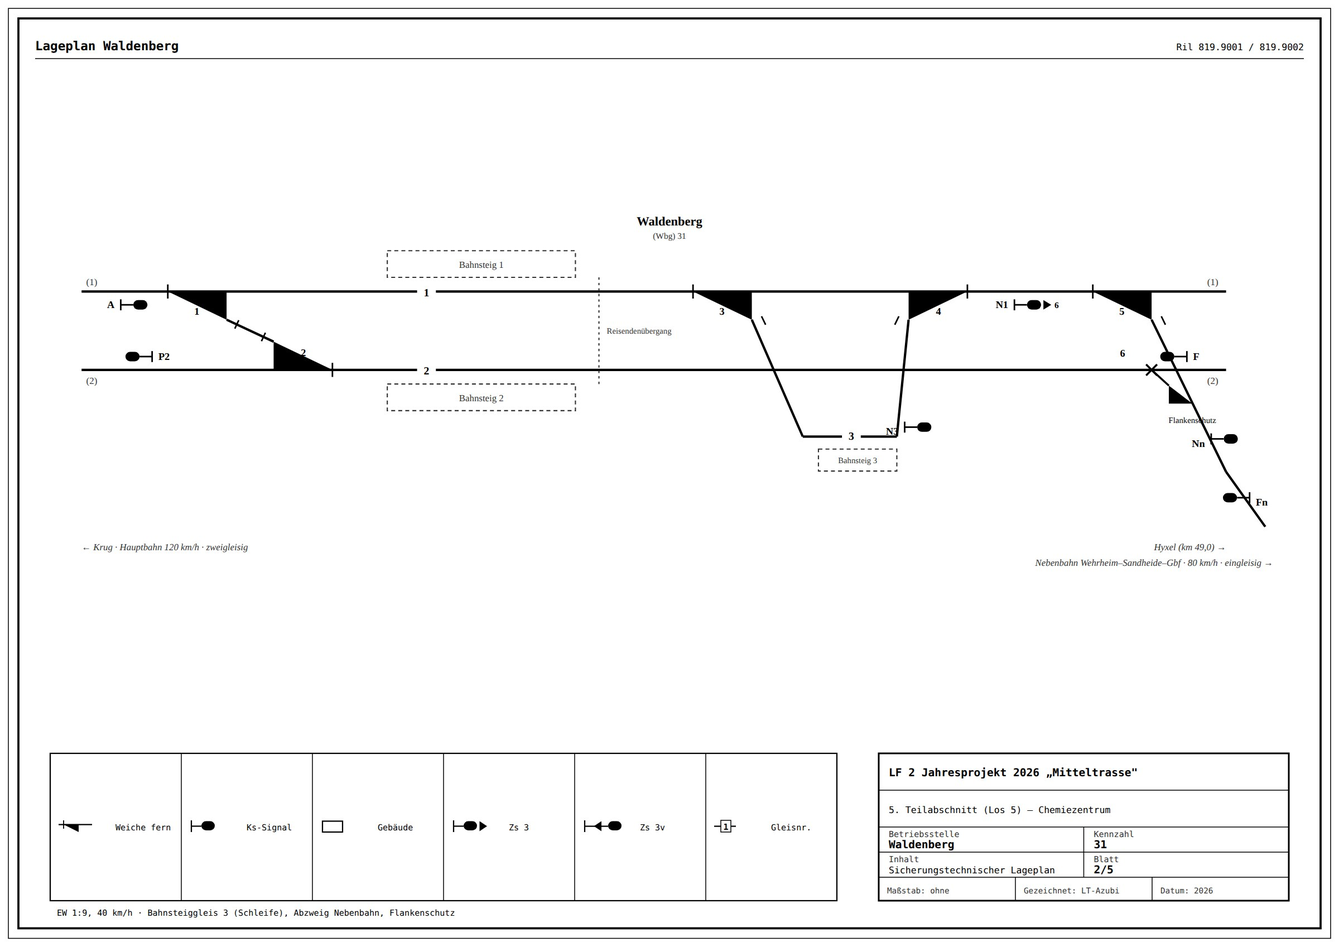
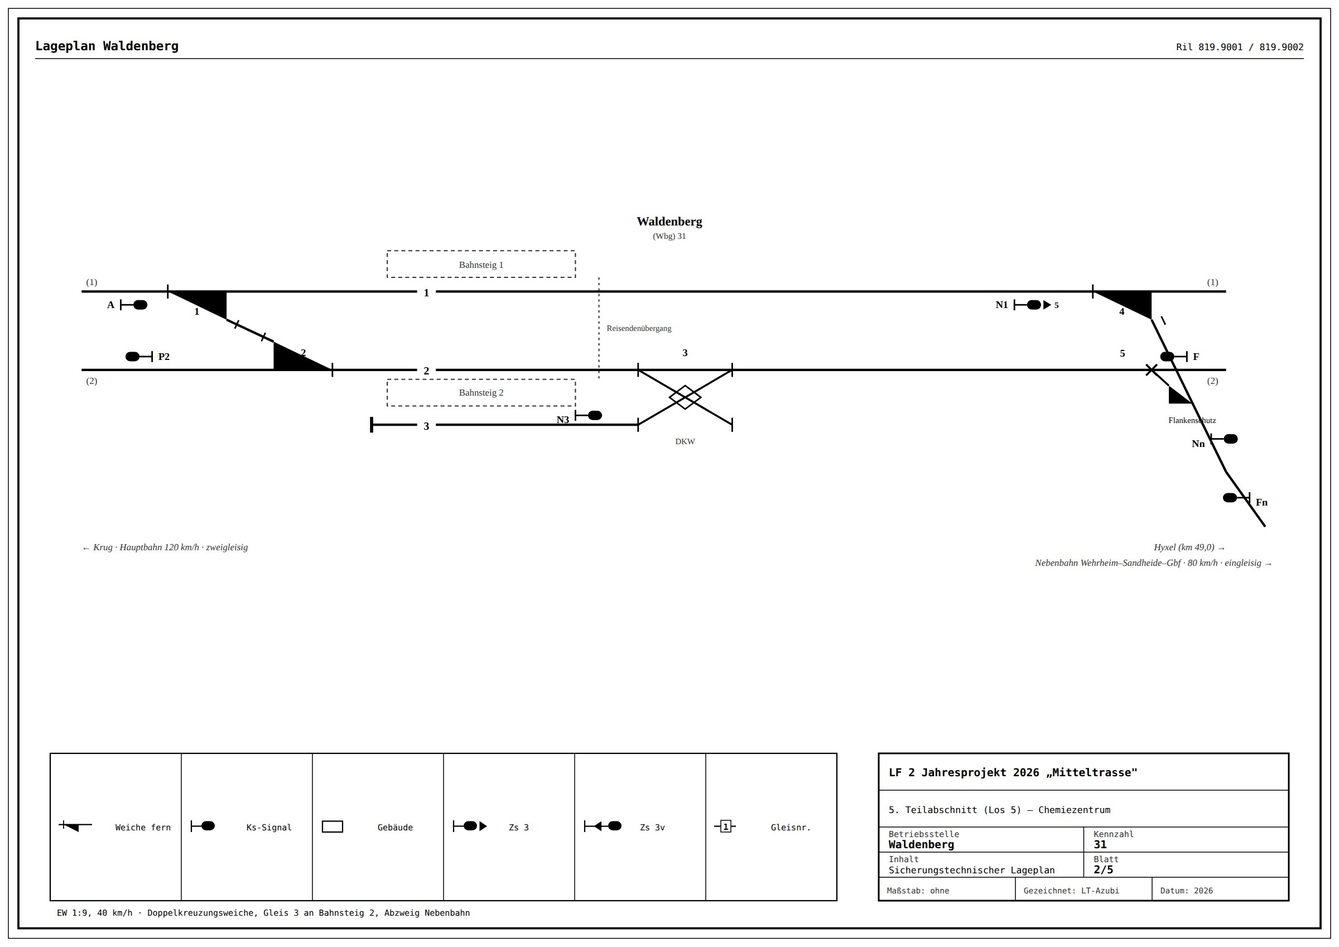
Lageplan Waldenberg: Doppelkreuzungsweiche hinter den Bahnsteigen, Gleis 3 an Bahnsteig 2
Ersetzt die bisherige Bahnsteiggleis-3-Schleife (Weichen 3/4 aus Gleis 1)
durch eine Doppelkreuzungsweiche (DKW), die hinter den Bahnsteigen Gleis 2
und ein neues Gleis 3 verbindet. Gleis 3 liegt als Stumpfgleis (Prellbock
im Westen) an Bahnsteig 2, der dadurch zum Zwischenbahnsteig zwischen
Gleis 2 und Gleis 3 wird. Weichen und Signale entsprechend umnummeriert
(DKW = Weiche 3, Nebenbahn-Abzweig = Weiche 4, Schutzweiche = Weiche 5;
N1 Zs-3-Kennzahl auf 5 angepasst), Weichen-/Signalverzeichnis, Regeltext
und Legende (neue Symbole DKW und Prellbock) aktualisiert.

Technische Zeichnung und JPG-Export nachgezogen, Layoutkollision
zwischen Signal N3 und der DKW-Weichenspitze behoben, per
Playwright-Screenshot verifiziert.

Claude-Session: https://claude.ai/code/session_01KkKfmnRJ6JAZXpvefTv35t

diff --git a/lageplan-waldenberg.html b/lageplan-waldenberg.html
@@ -77,11 +77,11 @@
   <h1>Lageplan Waldenberg</h1>
   <p class="sub">
     Abzweigbahnhof: die zweigleisige Hauptbahn aus Richtung Krug (120 km/h) läuft am
-    Ostkopf <strong>durchgehend geradeaus</strong> weiter nach Hyxel/Furth. Die Bahnsteige 1
-    und 2 liegen außen an den Streckengleisen, verbunden über einen Reisendenübergang.
-    Getrennt davon liegt mittig ein eigenständiges Bahnsteiggleis 3 (Schleife aus Gleis 1),
-    und weiter östlich zweigt über eine eigene Weiche die eingleisige Nebenbahn nach
-    Wehrheim – Sandheide – Gbf (80 km/h) ab.
+    Ostkopf <strong>durchgehend geradeaus</strong> weiter nach Hyxel/Furth. Bahnsteig 1 liegt
+    außen an Gleis 1, Bahnsteig 2 als Zwischenbahnsteig zwischen Gleis 2 und dem neuen
+    Gleis 3, verbunden über einen Reisendenübergang. Hinter den Bahnsteigen verbindet eine
+    <strong>Doppelkreuzungsweiche</strong> Gleis 2 und Gleis 3. Weiter östlich zweigt über
+    eine eigene Weiche die eingleisige Nebenbahn nach Wehrheim – Sandheide – Gbf (80 km/h) ab.
   </p>
 
   <section class="panel">
@@ -91,13 +91,14 @@
       (ferngestellte Weiche), Grenzzeichen am Weichenende. Signale „abgeklappt" in
       Fahrtrichtung, Schirm ausgefüllt = wärterbedient. Alle Hauptsignale sind
       <strong>Ks-Mehrabschnittssignale</strong> (Kombinationssignale, Signalbegriffe Hp 0,
-      Ks 1, Ks 2) und tragen ihre Kennzeichnung am Schirm. Die Schutzweiche 6 sichert als
+      Ks 1, Ks 2) und tragen ihre Kennzeichnung am Schirm. Die Doppelkreuzungsweiche 3
+      verbindet Gleis 2 und Gleis 3 hinter den Bahnsteigen. Die Schutzweiche 5 sichert als
       <strong>Flankenschutz</strong> Gleis 1/2 gegen aus der Nebenbahn auflaufende
       Fahrzeuge und liegt in Grundstellung stets in Schutzlage (Sperrgleis).
     </p>
 
     <div class="diagram-scroll">
-      <svg class="plan" viewBox="0 0 1580 480" role="img" aria-label="Sicherungstechnischer Lageplan der Betriebsstelle Waldenberg: zwei durchgehende Hauptgleise 1 und 2 aus Richtung Krug nach Hyxel, Überleitverbinder mit den Weichen 1 und 2 am Westkopf, Außenbahnsteige 1 und 2 mit Reisendenübergang, eigenständiges Bahnsteiggleis 3 als Schleife aus Gleis 1 mit den Weichen 3 und 4, weiter östlich Abzweigweiche 5 aus Gleis 1 zur eingleisigen Nebenbahn nach Wehrheim mit Schutzweiche 6 als Flankenschutz, Einfahrsignale A und F, Ausfahrsignale N1 und N3, Nebenbahnsignale Nn und Fn.">
+      <svg class="plan" viewBox="0 0 1580 480" role="img" aria-label="Sicherungstechnischer Lageplan der Betriebsstelle Waldenberg: zwei durchgehende Hauptgleise 1 und 2 aus Richtung Krug nach Hyxel, Überleitverbinder mit den Weichen 1 und 2 am Westkopf, Außenbahnsteig 1 an Gleis 1, Zwischenbahnsteig 2 zwischen Gleis 2 und dem neuen Gleis 3 mit Reisendenübergang, dahinter eine Doppelkreuzungsweiche zwischen Gleis 2 und Gleis 3, weiter östlich Abzweigweiche 4 aus Gleis 1 zur eingleisigen Nebenbahn nach Wehrheim mit Schutzweiche 5 als Flankenschutz, Einfahrsignale A und F, Ausfahrsignale N1 und N3, Nebenbahnsignale Nn und Fn.">
 
         <!-- Betriebsstellenbezeichnung -->
         <text x="790" y="26" text-anchor="middle" font-size="16" font-weight="700" fill="currentColor">Waldenberg</text>
@@ -128,22 +129,30 @@
           <text x="323" y="192">2</text>
         </g>
 
-        <!-- Bahnsteig 1 (außen, nördlich Gleis 1) und Bahnsteig 2 (außen, südlich Gleis 2) -->
+        <!-- Bahnsteig 1 (außen, nördlich Gleis 1) und Bahnsteig 2 (Zwischenbahnsteig zwischen Gleis 2 und Gleis 3) -->
         <rect x="430" y="58" width="240" height="34" fill="none" stroke="var(--ink-soft)" stroke-width="1.5" stroke-dasharray="5,4"/>
         <text x="550" y="80" text-anchor="middle" fill="var(--ink-soft)" font-size="12">Bahnsteig 1</text>
-        <rect x="430" y="228" width="240" height="34" fill="none" stroke="var(--ink-soft)" stroke-width="1.5" stroke-dasharray="5,4"/>
-        <text x="550" y="250" text-anchor="middle" fill="var(--ink-soft)" font-size="12">Bahnsteig 2</text>
-        <line x1="700" y1="92" x2="700" y2="228" stroke="var(--ink-soft)" stroke-width="1.5" stroke-dasharray="3,4"/>
-        <text x="710" y="164" font-size="10.5" fill="var(--ink-soft)">Reisendenübergang</text>
+        <rect x="430" y="222" width="240" height="34" fill="none" stroke="var(--ink-soft)" stroke-width="1.5" stroke-dasharray="5,4"/>
+        <text x="550" y="243" text-anchor="middle" fill="var(--ink-soft)" font-size="12">Bahnsteig 2</text>
+        <line x1="700" y1="92" x2="700" y2="222" stroke="var(--ink-soft)" stroke-width="1.5" stroke-dasharray="3,4"/>
+        <text x="710" y="160" font-size="10.5" fill="var(--ink-soft)">Reisendenübergang</text>
 
-        <!-- Gleisnummern Hauptbahn in unterbrochener Gleislinie -->
+        <!-- Gleis 3: neues Bahnsteiggleis an Bahnsteig 2, Stumpfgleis mit Prellbock im Westen -->
+        <g stroke="currentColor" fill="none" stroke-width="3">
+          <line x1="410" y1="280" x2="750" y2="280"/>
+        </g>
+        <line x1="410" y1="270" x2="410" y2="290" stroke="currentColor" stroke-width="4"/>
+
+        <!-- Gleisnummern Hauptbahn/Gleis 3 in unterbrochener Gleislinie -->
         <g fill="var(--surface)" stroke="none">
           <rect x="468" y="100" width="24" height="20"/>
           <rect x="468" y="200" width="24" height="20"/>
+          <rect x="468" y="270" width="24" height="20"/>
         </g>
         <g fill="currentColor" font-size="14" font-weight="600" text-anchor="middle">
           <text x="480" y="116">1</text>
           <text x="480" y="216">2</text>
+          <text x="480" y="286">3</text>
         </g>
 
         <!-- Streckengleisbezeichnung (eingeklammert), West und Ost -->
@@ -154,49 +163,26 @@
           <text x="1490" y="228" text-anchor="end">(2)</text>
         </g>
 
-        <!-- ===== Bahnsteiggleis 3: eigenständige Schleife aus Gleis 1, Weichen 3 (West) und 4 (Ost) ===== -->
+        <!-- ===== Doppelkreuzungsweiche 3: verbindet Gleis 2 und Gleis 3 hinter den Bahnsteigen ===== -->
         <g stroke="currentColor" stroke-width="2">
-          <line x1="820" y1="101" x2="820" y2="119"/>
+          <line x1="750" y1="201" x2="750" y2="219"/>
+          <line x1="750" y1="271" x2="750" y2="289"/>
+          <line x1="870" y1="201" x2="870" y2="219"/>
+          <line x1="870" y1="271" x2="870" y2="289"/>
         </g>
-        <g fill="currentColor" stroke="none">
-          <polygon points="820,110 895,110 895,146"/>
-        </g>
-        <line x1="895" y1="146" x2="960" y2="295" stroke="currentColor" stroke-width="3"/>
-        <g stroke="currentColor" stroke-width="2">
-          <line x1="907.4" y1="141.6" x2="912.6" y2="152.4"/>
-        </g>
-        <text x="857" y="140" text-anchor="middle" font-size="13" font-weight="600" fill="currentColor">3</text>
+        <line x1="750" y1="210" x2="870" y2="280" stroke="currentColor" stroke-width="2.5"/>
+        <line x1="750" y1="280" x2="870" y2="210" stroke="currentColor" stroke-width="2.5"/>
+        <polygon points="810,230 830,245 810,260 790,245" fill="none" stroke="currentColor" stroke-width="2"/>
+        <text x="810" y="192" text-anchor="middle" font-size="13" font-weight="600" fill="currentColor">3</text>
+        <text x="810" y="305" text-anchor="middle" font-size="10.5" fill="var(--ink-soft)">DKW</text>
 
-        <g stroke="currentColor" fill="none" stroke-width="3">
-          <line x1="960" y1="295" x2="1080" y2="295"/>
-        </g>
-        <g fill="var(--surface)" stroke="none">
-          <rect x="1010" y="283" width="24" height="20"/>
-        </g>
-        <text x="1022" y="299" text-anchor="middle" font-size="14" font-weight="600" fill="currentColor">3</text>
-
-        <rect x="980" y="311" width="100" height="28" fill="none" stroke="var(--ink-soft)" stroke-width="1.5" stroke-dasharray="5,4"/>
-        <text x="1030" y="329" text-anchor="middle" fill="var(--ink-soft)" font-size="10.5">Bahnsteig 3</text>
-
-        <g stroke="currentColor" stroke-width="2">
-          <line x1="1170" y1="101" x2="1170" y2="119"/>
-        </g>
-        <g fill="currentColor" stroke="none">
-          <polygon points="1170,110 1095,110 1095,146"/>
-        </g>
-        <line x1="1095" y1="146" x2="1080" y2="295" stroke="currentColor" stroke-width="3"/>
-        <g stroke="currentColor" stroke-width="2">
-          <line x1="1082.6" y1="141.6" x2="1077.4" y2="152.4"/>
-        </g>
-        <text x="1133" y="140" text-anchor="middle" font-size="13" font-weight="600" fill="currentColor">4</text>
-
-        <!-- N3: Ausfahrsignal Gleis 3 zurück auf Gleis 1, Richtung Hyxel -->
+        <!-- N3: Ausfahrsignal Gleis 3, zurück über die DKW auf Gleis 2 -->
         <g stroke="currentColor" stroke-width="2" fill="none">
-          <line x1="1090" y1="276" x2="1090" y2="290"/>
-          <line x1="1090" y1="283" x2="1106" y2="283"/>
+          <line x1="670" y1="261" x2="670" y2="275"/>
+          <line x1="670" y1="268" x2="686" y2="268"/>
         </g>
-        <rect x="1106" y="277" width="18" height="12" rx="6" fill="currentColor"/>
-        <text x="1082" y="293" text-anchor="end" font-size="13" font-weight="600" fill="currentColor">N3</text>
+        <rect x="686" y="262" width="18" height="12" rx="6" fill="currentColor"/>
+        <text x="662" y="278" text-anchor="end" font-size="13" font-weight="600" fill="currentColor">N3</text>
 
         <!-- ===== Signale Hauptbahn ===== -->
         <!-- A: Einfahrsignal West, Gleis 1 -->
@@ -222,7 +208,7 @@
         </g>
         <rect x="1246" y="121" width="18" height="12" rx="6" fill="currentColor"/>
         <polygon points="1267,121 1277,127 1267,133" fill="currentColor"/>
-        <text x="1281" y="131" font-size="11" font-weight="600" fill="currentColor">6</text>
+        <text x="1281" y="131" font-size="11" font-weight="600" fill="currentColor">5</text>
         <text x="1222" y="131" text-anchor="end" font-size="13" font-weight="600" fill="currentColor">N1</text>
 
         <!-- F: Einfahrsignal Ost, Gleis 2, von Hyxel -->
@@ -233,7 +219,7 @@
         <rect x="1416" y="187" width="18" height="12" rx="6" fill="currentColor"/>
         <text x="1458" y="197" font-size="13" font-weight="600" fill="currentColor">F</text>
 
-        <!-- ===== Abzweig zur Nebenbahn: Weiche 5 aus Gleis 1, weiter östlich als das Bahnsteiggleis 3 ===== -->
+        <!-- ===== Abzweig zur Nebenbahn: Weiche 4 aus Gleis 1, weiter östlich als die Bahnsteige ===== -->
         <g stroke="currentColor" stroke-width="2">
           <line x1="1330" y1="101" x2="1330" y2="119"/>
         </g>
@@ -245,16 +231,16 @@
         <g stroke="currentColor" stroke-width="2">
           <line x1="1417.4" y1="141.6" x2="1422.6" y2="152.4"/>
         </g>
-        <text x="1367" y="140" text-anchor="middle" font-size="13" font-weight="600" fill="currentColor">5</text>
+        <text x="1367" y="140" text-anchor="middle" font-size="13" font-weight="600" fill="currentColor">4</text>
 
-        <!-- Schutzweiche 6: Flankenschutz für Gleis 1/2 gegen die Nebenbahn, Grundstellung Schutzlage -->
+        <!-- Schutzweiche 5: Flankenschutz für Gleis 1/2 gegen die Nebenbahn, Grundstellung Schutzlage -->
         <g fill="currentColor" stroke="none">
           <polygon points="1457,253 1427,253 1427,230"/>
         </g>
         <line x1="1427" y1="230" x2="1405" y2="210" stroke="currentColor" stroke-width="2.5"/>
         <line x1="1398" y1="203" x2="1412" y2="217" stroke="currentColor" stroke-width="2.5"/>
         <line x1="1412" y1="203" x2="1398" y2="217" stroke="currentColor" stroke-width="2.5"/>
-        <text x="1368" y="193" text-anchor="middle" font-size="13" font-weight="600" fill="currentColor">6</text>
+        <text x="1368" y="193" text-anchor="middle" font-size="13" font-weight="600" fill="currentColor">5</text>
         <text x="1457" y="278" text-anchor="middle" font-size="10.5" fill="var(--accent-ink)">Flankenschutz</text>
 
         <!-- Nn: Ausfahrsignal Nebenbahn, Richtung Wehrheim -->
@@ -286,9 +272,9 @@
       <span>Sämtliche fernbediente Weichen mit Zungenprüfern.</span>
       <span>Gleisnummern sind einstellig.</span>
       <span>Nebenbahn eingleisig; Kreuzungsmöglichkeiten in Wehrheim, Sandheide und Wassergrund.</span>
-      <span>Weichen 3/4 (Bahnsteiggleis 3, Schleife aus Gleis 1) EW 1:9, 40 km/h.</span>
-      <span>Weiche 5 (Abzweig zur Nebenbahn) EW 1:9, Abzweiggeschwindigkeit 40 km/h → Zs 3 mit Kennzahl 6 an N1.</span>
-      <span>Schutzweiche 6: Flankenschutz für Gleis 1/2, Grundstellung Schutzlage, keine Reisezugfunktion.</span>
+      <span>Doppelkreuzungsweiche 3 verbindet Gleis 2 und Gleis 3 hinter den Bahnsteigen, EW 1:9, 40 km/h.</span>
+      <span>Weiche 4 (Abzweig zur Nebenbahn) EW 1:9, Abzweiggeschwindigkeit 40 km/h → Zs 3 mit Kennzahl 5 an N1.</span>
+      <span>Schutzweiche 5: Flankenschutz für Gleis 1/2, Grundstellung Schutzlage, keine Reisezugfunktion.</span>
     </div>
   </section>
 
@@ -302,10 +288,9 @@
             <tbody>
               <tr><td class="mono">1</td><td class="mono">31W1</td><td>Gleis 1 → Verbindungsgleis (Westkopf, Überleitverbinder)</td></tr>
               <tr><td class="mono">2</td><td class="mono">31W2</td><td>Verbindungsgleis → Gleis 2 (Westkopf, Überleitverbinder)</td></tr>
-              <tr><td class="mono">3</td><td class="mono">31W3</td><td>Gleis 1 → Bahnsteiggleis 3 (Westanschluss der Schleife)</td></tr>
-              <tr><td class="mono">4</td><td class="mono">31W4</td><td>Bahnsteiggleis 3 → Gleis 1 (Ostanschluss der Schleife)</td></tr>
-              <tr><td class="mono">5</td><td class="mono">31W5</td><td>Gleis 1 → Nebenbahn (Ostkopf, Abzweig Richtung Wehrheim)</td></tr>
-              <tr><td class="mono">6</td><td class="mono">31W6</td><td>Schutzweiche Nebenbahn, Flankenschutz für Gleis 1/2 (Grundstellung: Schutzlage)</td></tr>
+              <tr><td class="mono">3</td><td class="mono">31W3</td><td>Doppelkreuzungsweiche, Gleis 2 ↔ Gleis 3 (hinter den Bahnsteigen)</td></tr>
+              <tr><td class="mono">4</td><td class="mono">31W4</td><td>Gleis 1 → Nebenbahn (Ostkopf, Abzweig Richtung Wehrheim)</td></tr>
+              <tr><td class="mono">5</td><td class="mono">31W5</td><td>Schutzweiche Nebenbahn, Flankenschutz für Gleis 1/2 (Grundstellung: Schutzlage)</td></tr>
             </tbody>
           </table>
         </div>
@@ -318,8 +303,8 @@
             <tbody>
               <tr><td class="mono">A</td><td class="mono">31A</td><td>Einfahrsignal Gleis 1, von Krug · Ks-Mehrabschnittssignal (Kombinationssignal)</td></tr>
               <tr><td class="mono">P2</td><td class="mono">31P2</td><td>Ausfahrsignal Gleis 2, Richtung Krug · Ks-Mehrabschnittssignal</td></tr>
-              <tr><td class="mono">N3</td><td class="mono">31N3</td><td>Ausfahrsignal Bahnsteiggleis 3, zurück auf Gleis 1 Richtung Hyxel · Ks-Mehrabschnittssignal</td></tr>
-              <tr><td class="mono">N1</td><td class="mono">31N1</td><td>Ausfahrsignal Gleis 1, Richtung Hyxel oder über Weiche 5 zur Nebenbahn · Ks-Mehrabschnittssignal mit <strong>Zs 3 (6)</strong> für die Abzweigfahrt</td></tr>
+              <tr><td class="mono">N3</td><td class="mono">31N3</td><td>Ausfahrsignal Gleis 3, über die Doppelkreuzungsweiche zurück auf Gleis 2 · Ks-Mehrabschnittssignal</td></tr>
+              <tr><td class="mono">N1</td><td class="mono">31N1</td><td>Ausfahrsignal Gleis 1, Richtung Hyxel oder über Weiche 4 zur Nebenbahn · Ks-Mehrabschnittssignal mit <strong>Zs 3 (5)</strong> für die Abzweigfahrt</td></tr>
               <tr><td class="mono">F</td><td class="mono">31F</td><td>Einfahrsignal Gleis 2, von Hyxel · Ks-Mehrabschnittssignal</td></tr>
               <tr><td class="mono">Nn</td><td class="mono">31Nn</td><td>Ausfahrsignal Nebenbahn, Richtung Wehrheim · Ks-Mehrabschnittssignal</td></tr>
               <tr><td class="mono">Fn</td><td class="mono">31Fn</td><td>Einfahrsignal Nebenbahn, von Wehrheim · Ks-Mehrabschnittssignal</td></tr>
@@ -331,12 +316,13 @@
     </div>
 
     <div class="caveat">
-      <strong>Flankenschutz:</strong> Schutzweiche 6 liegt in Grundstellung stets in
+      <strong>Flankenschutz:</strong> Schutzweiche 5 liegt in Grundstellung stets in
       Schutzlage (auf ein kurzes Sperrgleis) und sichert Gleis 1/2 gegen ein aus der
-      Nebenbahn auflaufendes Fahrzeug. Sie wird nur für Fahrten über Weiche 5 umgestellt
-      und führt keinen eigenen Reisezugverkehr. Der Bahnübergang km 0,8 liegt außerhalb
-      des dargestellten Ausschnitts auf freier Strecke der Nebenbahn und ist hier nicht
-      Bestandteil des Bahnhofs-Lageplans.
+      Nebenbahn auflaufendes Fahrzeug. Sie wird nur für Fahrten über Weiche 4 umgestellt
+      und führt keinen eigenen Reisezugverkehr. Gleis 3 an Bahnsteig 2 ist ein Stumpfgleis
+      (Prellbock im Westen) und wird ausschließlich über die Doppelkreuzungsweiche 3
+      bedient. Der Bahnübergang km 0,8 liegt außerhalb des dargestellten Ausschnitts auf
+      freier Strecke der Nebenbahn und ist hier nicht Bestandteil des Bahnhofs-Lageplans.
     </div>
   </section>
 
@@ -385,6 +371,23 @@
           <text x="16" y="14" text-anchor="middle" font-size="12" font-weight="600" fill="currentColor" font-family="monospace">1</text>
         </svg>
         <span>Gleisnummer in der unterbrochenen Gleislinie</span>
+      </div>
+      <div class="legend-item">
+        <svg width="42" height="26" viewBox="0 0 42 26" aria-hidden="true">
+          <line x1="0" y1="6" x2="14" y2="20" stroke="currentColor" stroke-width="2"/>
+          <line x1="0" y1="20" x2="14" y2="6" stroke="currentColor" stroke-width="2"/>
+          <line x1="28" y1="6" x2="42" y2="20" stroke="currentColor" stroke-width="2"/>
+          <line x1="28" y1="20" x2="42" y2="6" stroke="currentColor" stroke-width="2"/>
+          <polygon points="21,9 26,13 21,17 16,13" fill="none" stroke="currentColor" stroke-width="1.5"/>
+        </svg>
+        <span>Doppelkreuzungsweiche (DKW), verbindet zwei parallele Gleise</span>
+      </div>
+      <div class="legend-item">
+        <svg width="26" height="18" viewBox="0 0 26 18" aria-hidden="true">
+          <line x1="0" y1="9" x2="18" y2="9" stroke="currentColor" stroke-width="2"/>
+          <line x1="18" y1="2" x2="18" y2="16" stroke="currentColor" stroke-width="4"/>
+        </svg>
+        <span>Prellbock (Gleisende, Stumpfgleis)</span>
       </div>
     </div>
   </section>

diff --git a/zeichnung-waldenberg.html b/zeichnung-waldenberg.html
@@ -44,17 +44,23 @@
 </g>
 <rect x="430" y="58" width="240" height="34" fill="none" stroke="#333333" stroke-width="1.5" stroke-dasharray="5,4"/>
 <text x="550" y="80" text-anchor="middle" fill="#333333" font-size="12">Bahnsteig 1</text>
-<rect x="430" y="228" width="240" height="34" fill="none" stroke="#333333" stroke-width="1.5" stroke-dasharray="5,4"/>
-<text x="550" y="250" text-anchor="middle" fill="#333333" font-size="12">Bahnsteig 2</text>
-<line x1="700" y1="92" x2="700" y2="228" stroke="#333333" stroke-width="1.5" stroke-dasharray="3,4"/>
-<text x="710" y="164" font-size="10.5" fill="#333333">Reisendenübergang</text>
+<rect x="430" y="222" width="240" height="34" fill="none" stroke="#333333" stroke-width="1.5" stroke-dasharray="5,4"/>
+<text x="550" y="243" text-anchor="middle" fill="#333333" font-size="12">Bahnsteig 2</text>
+<line x1="700" y1="92" x2="700" y2="222" stroke="#333333" stroke-width="1.5" stroke-dasharray="3,4"/>
+<text x="710" y="160" font-size="10.5" fill="#333333">Reisendenübergang</text>
+<g stroke="#000000" fill="none" stroke-width="3">
+  <line x1="410" y1="280" x2="750" y2="280"/>
+</g>
+<line x1="410" y1="270" x2="410" y2="290" stroke="#000000" stroke-width="4"/>
 <g fill="#ffffff" stroke="none">
   <rect x="468" y="100" width="24" height="20"/>
   <rect x="468" y="200" width="24" height="20"/>
+  <rect x="468" y="270" width="24" height="20"/>
 </g>
 <g fill="#000000" font-size="14" font-weight="600" text-anchor="middle">
   <text x="480" y="116">1</text>
   <text x="480" y="216">2</text>
+  <text x="480" y="286">3</text>
 </g>
 <g fill="#333333" font-size="12">
   <text x="46" y="102">(1)</text>
@@ -63,42 +69,22 @@
   <text x="1490" y="228" text-anchor="end">(2)</text>
 </g>
 <g stroke="#000000" stroke-width="2">
-  <line x1="820" y1="101" x2="820" y2="119"/>
+  <line x1="750" y1="201" x2="750" y2="219"/>
+  <line x1="750" y1="271" x2="750" y2="289"/>
+  <line x1="870" y1="201" x2="870" y2="219"/>
+  <line x1="870" y1="271" x2="870" y2="289"/>
 </g>
-<g fill="#000000" stroke="none">
-  <polygon points="820,110 895,110 895,146"/>
-</g>
-<line x1="895" y1="146" x2="960" y2="295" stroke="#000000" stroke-width="3"/>
-<g stroke="#000000" stroke-width="2">
-  <line x1="907.4" y1="141.6" x2="912.6" y2="152.4"/>
-</g>
-<text x="857" y="140" text-anchor="middle" font-size="13" font-weight="600" fill="#000000">3</text>
-<g stroke="#000000" fill="none" stroke-width="3">
-  <line x1="960" y1="295" x2="1080" y2="295"/>
-</g>
-<g fill="#ffffff" stroke="none">
-  <rect x="1010" y="283" width="24" height="20"/>
-</g>
-<text x="1022" y="299" text-anchor="middle" font-size="14" font-weight="600" fill="#000000">3</text>
-<rect x="980" y="311" width="100" height="28" fill="none" stroke="#333333" stroke-width="1.5" stroke-dasharray="5,4"/>
-<text x="1030" y="329" text-anchor="middle" fill="#333333" font-size="10.5">Bahnsteig 3</text>
-<g stroke="#000000" stroke-width="2">
-  <line x1="1170" y1="101" x2="1170" y2="119"/>
-</g>
-<g fill="#000000" stroke="none">
-  <polygon points="1170,110 1095,110 1095,146"/>
-</g>
-<line x1="1095" y1="146" x2="1080" y2="295" stroke="#000000" stroke-width="3"/>
-<g stroke="#000000" stroke-width="2">
-  <line x1="1082.6" y1="141.6" x2="1077.4" y2="152.4"/>
-</g>
-<text x="1133" y="140" text-anchor="middle" font-size="13" font-weight="600" fill="#000000">4</text>
+<line x1="750" y1="210" x2="870" y2="280" stroke="#000000" stroke-width="2.5"/>
+<line x1="750" y1="280" x2="870" y2="210" stroke="#000000" stroke-width="2.5"/>
+<polygon points="810,230 830,245 810,260 790,245" fill="none" stroke="#000000" stroke-width="2"/>
+<text x="810" y="192" text-anchor="middle" font-size="13" font-weight="600" fill="#000000">3</text>
+<text x="810" y="305" text-anchor="middle" font-size="10.5" fill="#333333">DKW</text>
 <g stroke="#000000" stroke-width="2" fill="none">
-  <line x1="1090" y1="276" x2="1090" y2="290"/>
-  <line x1="1090" y1="283" x2="1106" y2="283"/>
+  <line x1="670" y1="261" x2="670" y2="275"/>
+  <line x1="670" y1="268" x2="686" y2="268"/>
 </g>
-<rect x="1106" y="277" width="18" height="12" rx="6" fill="#000000"/>
-<text x="1082" y="293" text-anchor="end" font-size="13" font-weight="600" fill="#000000">N3</text>
+<rect x="686" y="262" width="18" height="12" rx="6" fill="#000000"/>
+<text x="662" y="278" text-anchor="end" font-size="13" font-weight="600" fill="#000000">N3</text>
 <g stroke="#000000" stroke-width="2" fill="none">
   <line x1="90" y1="120" x2="90" y2="134"/>
   <line x1="90" y1="127" x2="106" y2="127"/>
@@ -117,7 +103,7 @@
 </g>
 <rect x="1246" y="121" width="18" height="12" rx="6" fill="#000000"/>
 <polygon points="1267,121 1277,127 1267,133" fill="#000000"/>
-<text x="1281" y="131" font-size="11" font-weight="600" fill="#000000">6</text>
+<text x="1281" y="131" font-size="11" font-weight="600" fill="#000000">5</text>
 <text x="1222" y="131" text-anchor="end" font-size="13" font-weight="600" fill="#000000">N1</text>
 <g stroke="#000000" stroke-width="2" fill="none">
   <line x1="1450" y1="186" x2="1450" y2="200"/>
@@ -136,14 +122,14 @@
 <g stroke="#000000" stroke-width="2">
   <line x1="1417.4" y1="141.6" x2="1422.6" y2="152.4"/>
 </g>
-<text x="1367" y="140" text-anchor="middle" font-size="13" font-weight="600" fill="#000000">5</text>
+<text x="1367" y="140" text-anchor="middle" font-size="13" font-weight="600" fill="#000000">4</text>
 <g fill="#000000" stroke="none">
   <polygon points="1457,253 1427,253 1427,230"/>
 </g>
 <line x1="1427" y1="230" x2="1405" y2="210" stroke="#000000" stroke-width="2.5"/>
 <line x1="1398" y1="203" x2="1412" y2="217" stroke="#000000" stroke-width="2.5"/>
 <line x1="1412" y1="203" x2="1398" y2="217" stroke="#000000" stroke-width="2.5"/>
-<text x="1368" y="193" text-anchor="middle" font-size="13" font-weight="600" fill="#000000">6</text>
+<text x="1368" y="193" text-anchor="middle" font-size="13" font-weight="600" fill="#000000">5</text>
 <text x="1457" y="278" text-anchor="middle" font-size="10.5" fill="#000000">Flankenschutz</text>
 <g stroke="#000000" stroke-width="2" fill="none">
   <line x1="1481" y1="291" x2="1481" y2="305"/>
@@ -184,7 +170,7 @@
 <g transform="translate(853.333,979)"><line x1="0" y1="8" x2="26" y2="8" stroke="#000" stroke-width="1.5"/><rect x="8" y="1" width="12" height="14" fill="#fff" stroke="#000" stroke-width="1"/><text x="14" y="12" text-anchor="middle" font-size="10" font-weight="600" fill="#000">1</text></g>
 <text x="921.333" y="992" font-size="10" fill="#000">Gleisnr.</text>
 </g>
-<text x="68" y="1094" font-size="10" fill="#000" font-family="IBM Plex Mono, monospace">EW 1:9, 40 km/h · Bahnsteiggleis 3 (Schleife), Abzweig Nebenbahn, Flankenschutz</text>
+<text x="68" y="1094" font-size="10" fill="#000" font-family="IBM Plex Mono, monospace">EW 1:9, 40 km/h · Doppelkreuzungsweiche, Gleis 3 an Bahnsteig 2, Abzweig Nebenbahn</text>
 <g font-family="IBM Plex Mono, monospace">
 <rect x="1050" y="900" width="490" height="176" fill="none" stroke="#000" stroke-width="2"/>
 <line x1="1050" y1="944" x2="1540" y2="944" stroke="#000" stroke-width="1"/>
